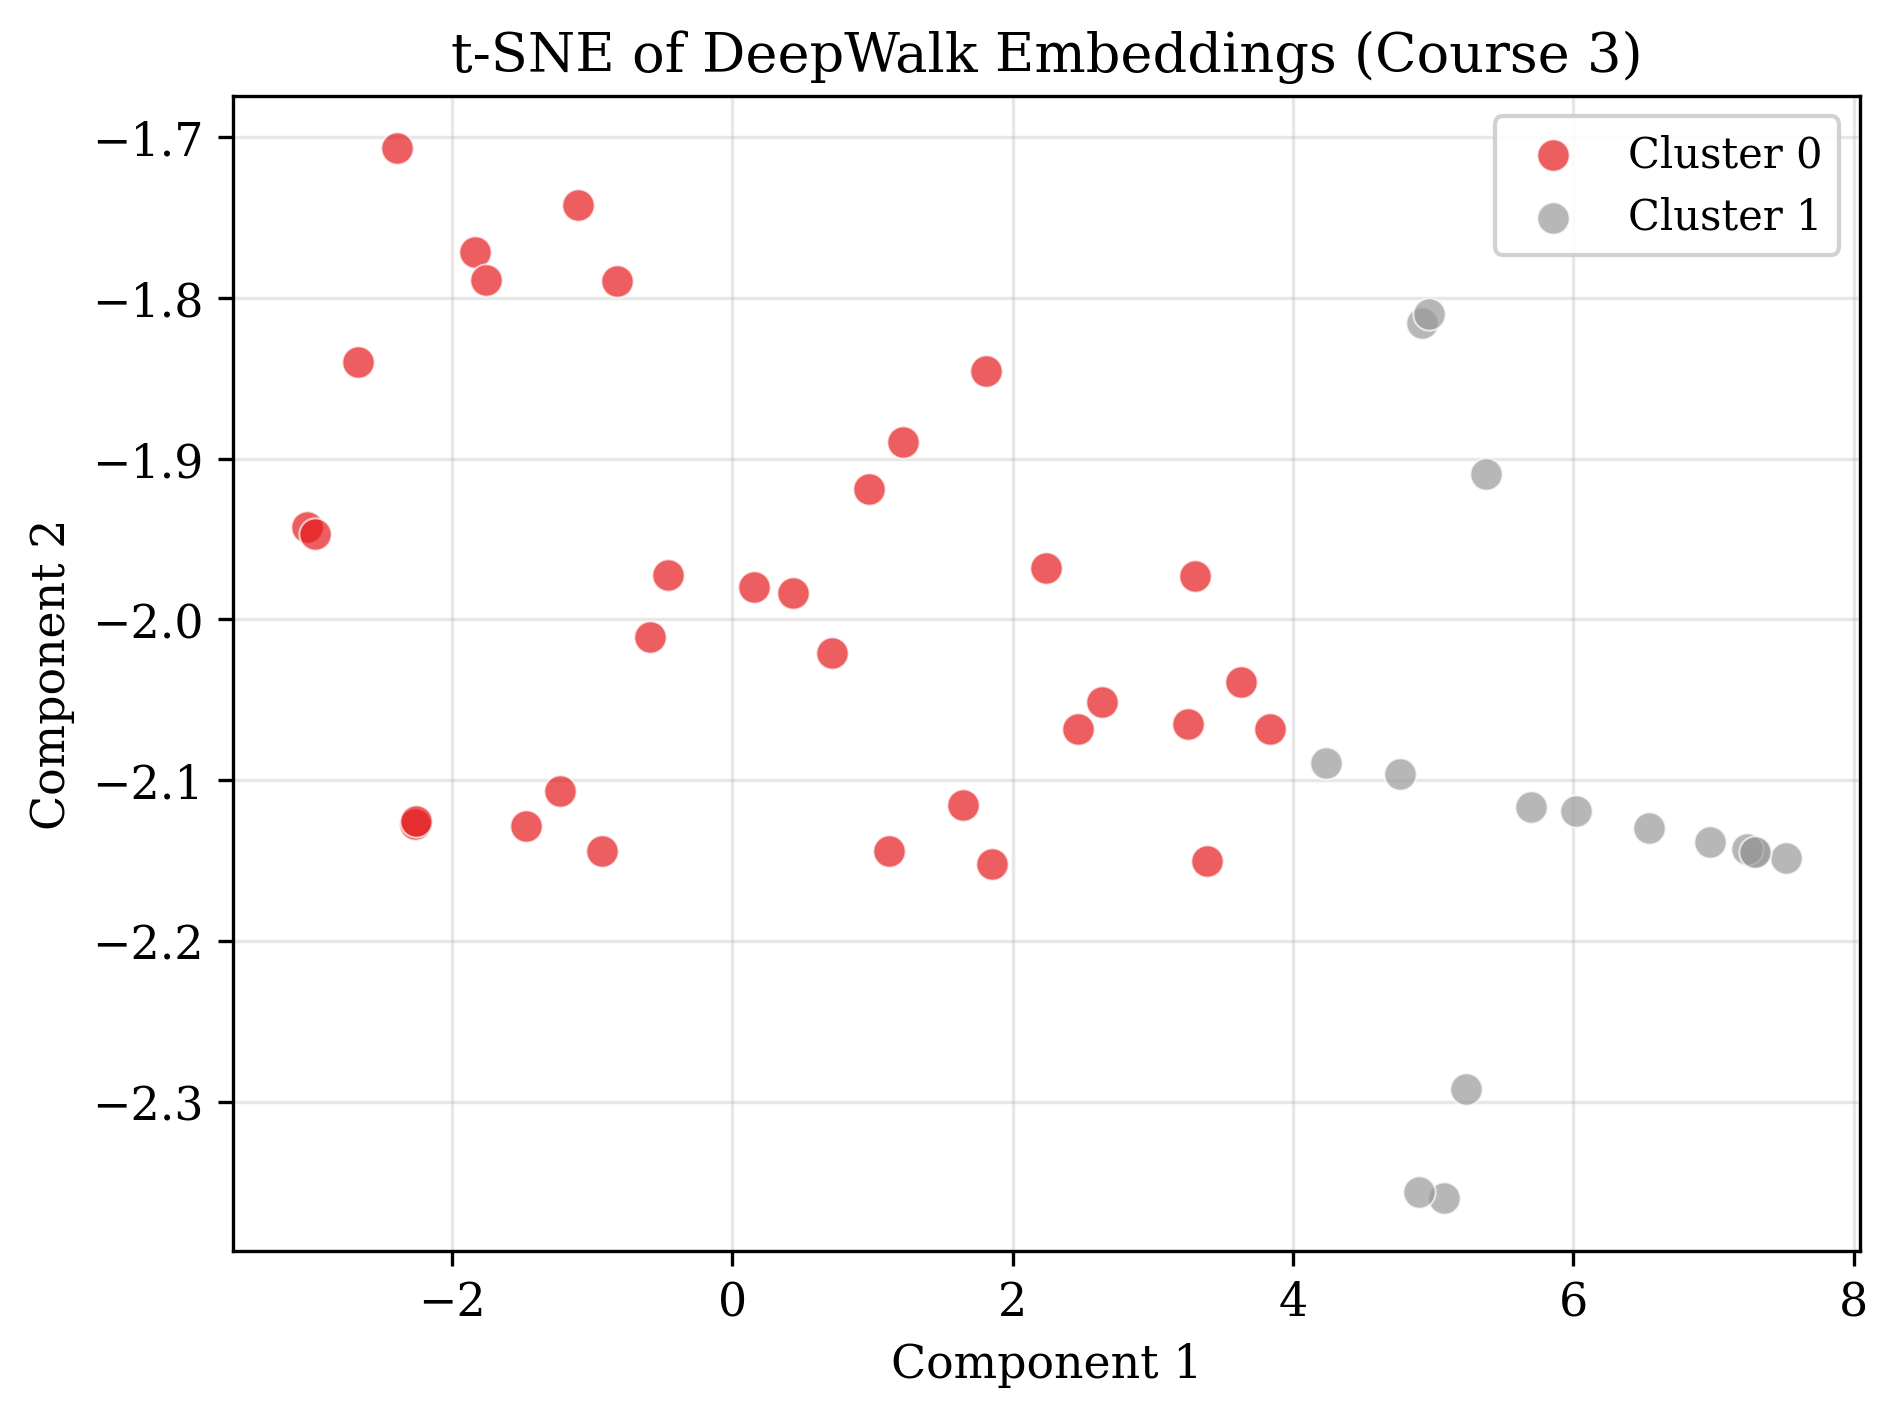
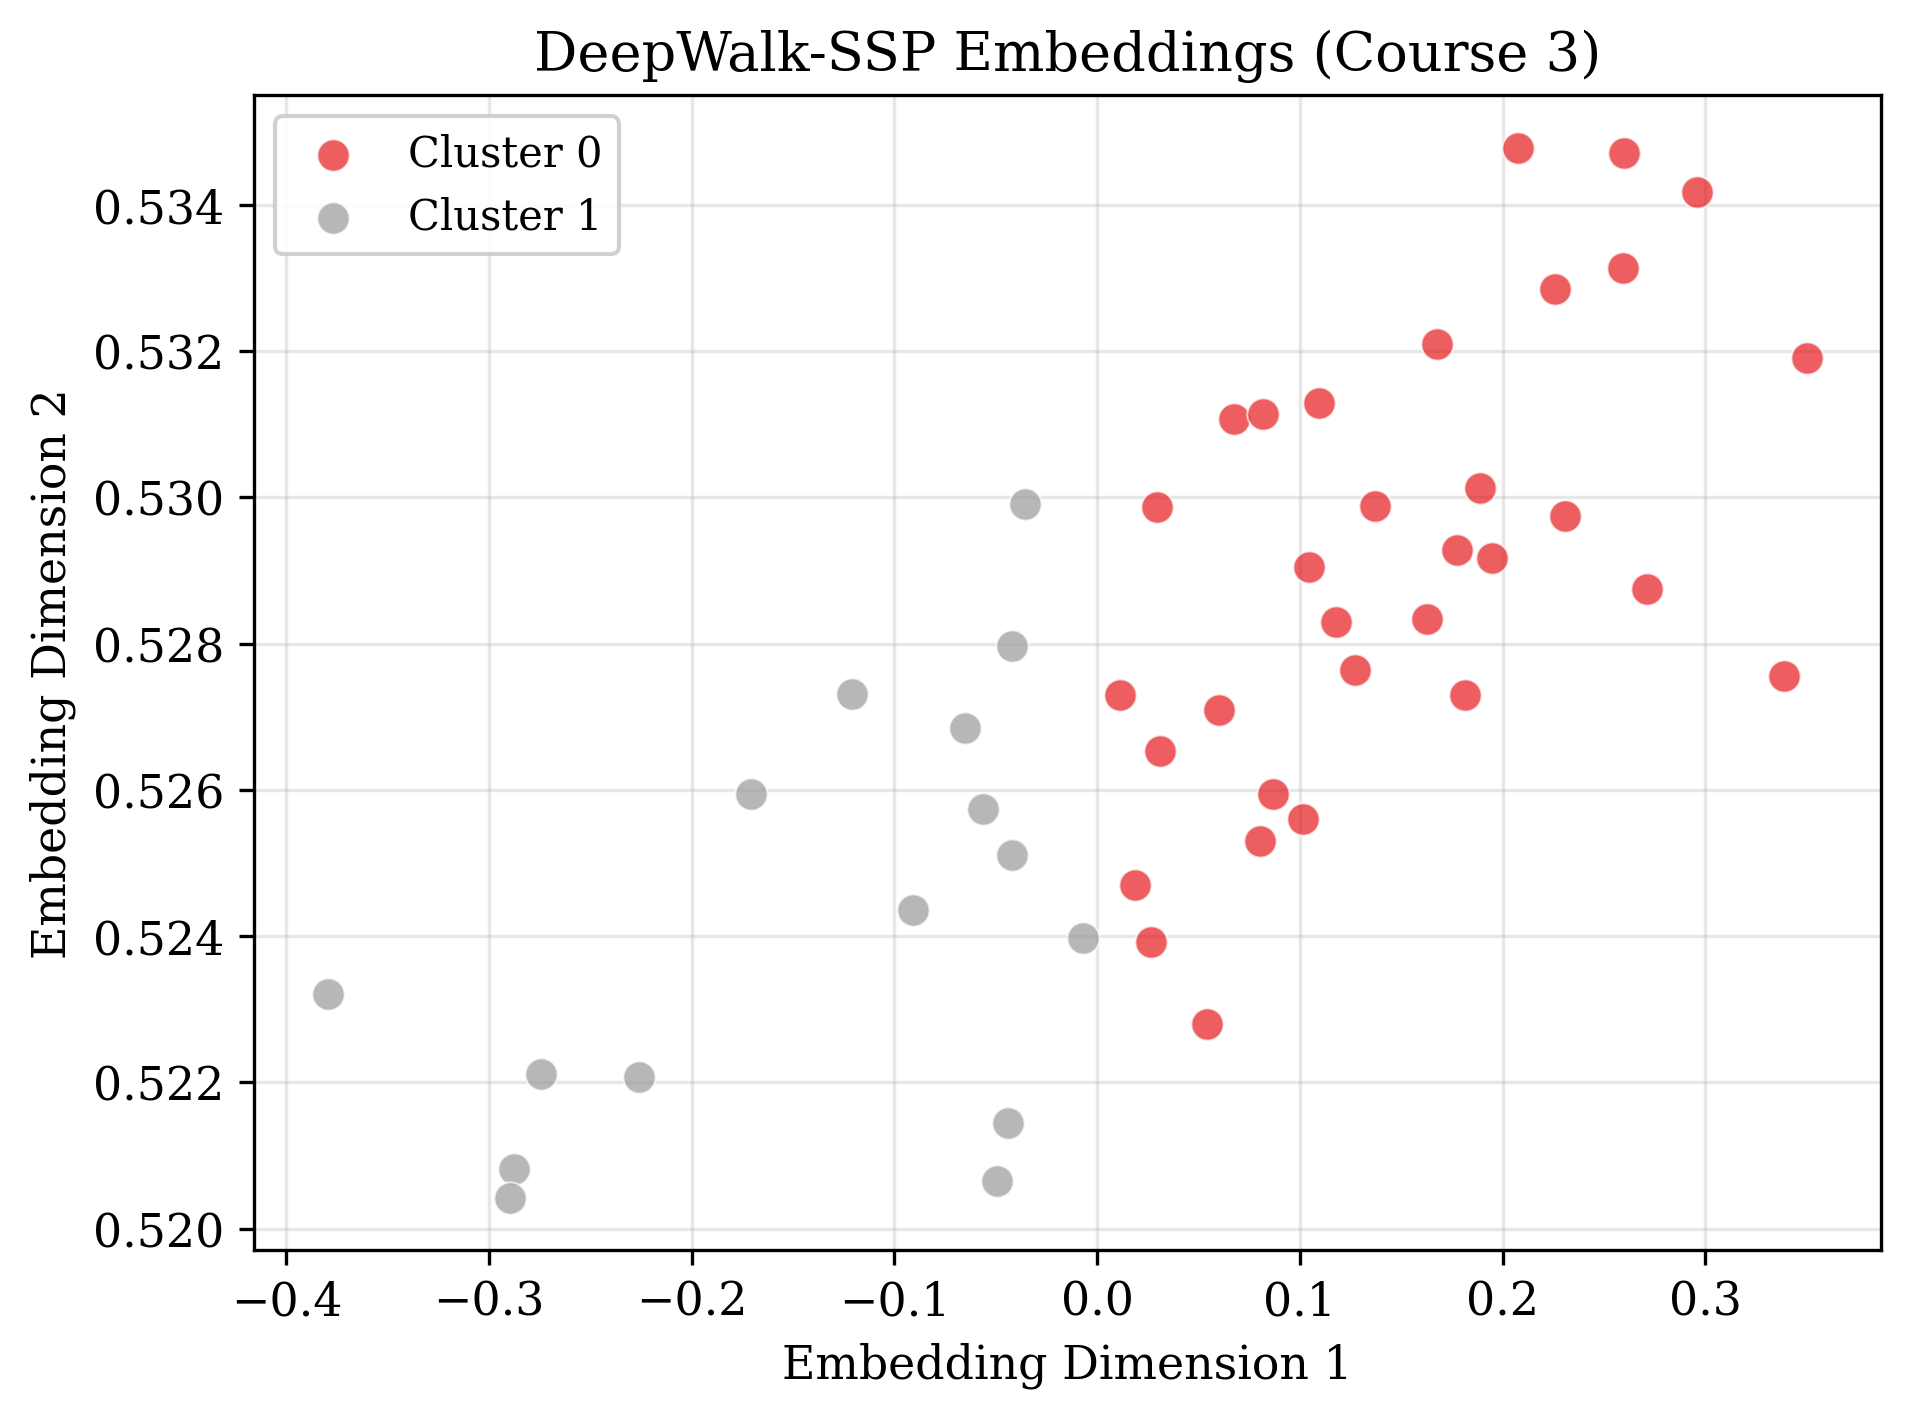
Fix: Remove t-SNE from DeepWalk embedding visualization for d=2
Since the final configuration uses embedding dimension d=2, the
DeepWalk embeddings are already two-dimensional and do not need
t-SNE projection. This commit:

- Adds axis_labels parameter to plot_embedding_visualization() in
  plotting.py for custom axis labels on raw embeddings
- Updates experiment_visualization() in run_experiments.py to plot
  d=2 embeddings directly (no t-SNE) while keeping t-SNE for the
  high-dimensional BoW representation
- Adds standalone visualize_courses.py script for Course 3 and 5
- Regenerates DeepWalk figures: embeddings now plotted in their
  original embedding space with axes labeled "Embedding Dimension 1"
  and "Embedding Dimension 2"
- BoW figures unchanged (t-SNE projection retained for high-dim data)

Figures copied to paper/ (gitignored) for LaTeX compilation.

🤖 Generated with Codebuff

diff --git a/experiments/visualize_courses.py b/experiments/visualize_courses.py
@@ -1,0 +1,181 @@
+# -*- coding: utf-8 -*-
+"""
+Standalone visualization script for Course 3 and Course 5.
+Generates figures comparing:
+  (a) t-SNE of traditional Student-Course (BoW) representation
+  (b) Direct 2D DeepWalk-SSP embeddings (no dimensionality reduction)
+
+Usage:
+    python -m experiments.visualize_courses
+"""
+
+import os
+import sys
+import shutil
+import warnings
+warnings.filterwarnings("ignore")
+
+import numpy as np
+import matplotlib
+matplotlib.use('Agg')
+
+PROJECT_ROOT = os.path.dirname(os.path.dirname(os.path.abspath(__file__)))
+sys.path.insert(0, PROJECT_ROOT)
+
+from experiments.config import DATA_DIR, FIGURES_DIR, DEFAULT_PARAMS
+from experiments.core import read_class, run_pipeline
+from experiments.evaluation import evaluate_clustering, reduce_tsne
+from experiments.plotting import (
+    plot_embedding_visualization, setup_style, save_fig
+)
+
+# Ensure output directories exist
+os.makedirs(FIGURES_DIR, exist_ok=True)
+PAPER_DIR = os.path.join(PROJECT_ROOT, "paper")
+
+# Courses to visualize (same as in the paper)
+COURSES = [3, 5]
+
+# Data dimensions (from actual data files)
+DATA_DIMS = {
+    3: (48, 28),   # 48 students x 28 courses
+    5: (52, 32),   # 52 students x 32 courses
+}
+
+
+def generate_visualization(course_idx):
+    """Generate side-by-side visualization for a single course.
+    
+    Left panel:  t-SNE of Student-Course (BoW) representation
+    Right panel: Direct 2D DeepWalk-SSP embeddings (no t-SNE)
+    """
+    filepath = os.path.join(DATA_DIR, f"{course_idx}.txt")
+    scm, _ = read_class(filepath)
+    if scm is None:
+        print(f"  ERROR: Could not load Course {course_idx}")
+        return
+
+    n_students, n_courses = scm.shape
+    n_students_expected, n_courses_expected = DATA_DIMS[course_idx]
+    assert n_students == n_students_expected, \
+        f"Expected {n_students_expected} students, got {n_students}"
+    assert n_courses == n_courses_expected, \
+        f"Expected {n_courses_expected} courses, got {n_courses}"
+
+    print(f"\n  Course {course_idx}: {n_students} students x {n_courses} courses")
+
+    # Run DeepWalk pipeline with d=2 (same config as paper)
+    result = run_pipeline(
+        filepath,
+        vector_size=DEFAULT_PARAMS["vector_size"],   # d=2
+        walk_length=DEFAULT_PARAMS["walk_length"],    # t=10
+        num_walks=DEFAULT_PARAMS["num_walks"],        # gamma=80
+        window=DEFAULT_PARAMS["window"],              # w=5
+        epochs=DEFAULT_PARAMS["epochs"],              # eps=30
+        seed=0,
+    )
+
+    if not result["success"]:
+        print(f"  ERROR: DeepWalk pipeline failed for Course {course_idx}")
+        return
+
+    embeddings = result["embeddings"]
+    print(f"    Embeddings shape: {embeddings.shape} (expected ({n_students}, 2))")
+    assert embeddings.shape == (n_students, 2), \
+        f"Expected ({n_students}, 2), got {embeddings.shape}"
+
+    # Cluster assignments
+    emb_labels = evaluate_clustering(
+        embeddings, n_clusters=2, random_state=0
+    )["kmeans"]["labels"]
+
+    bow_labels = evaluate_clustering(
+        scm, n_clusters=2, random_state=0
+    )["kmeans"]["labels"]
+
+    # ── Panel (a): t-SNE of BoW (high-dimensional, needs projection) ──
+    try:
+        bow_tsne = reduce_tsne(
+            scm.astype(float),
+            perplexity=min(20, scm.shape[0] - 2),
+            random_state=42
+        )
+        plot_embedding_visualization(
+            scm, bow_labels,
+            f"t-SNE of Student-Course Representation (Course {course_idx})",
+            f"exp_F_tSNE_BoW_course{course_idx}.png",
+            reduced_2d=bow_tsne,
+        )
+        print(f"    [a] t-SNE BoW ({n_students}x{n_courses}): OK")
+    except Exception as e:
+        print(f"    [a] t-SNE BoW failed: {e}")
+
+    # ── Panel (b): Direct 2D DeepWalk embeddings (NO t-SNE) ──
+    plot_embedding_visualization(
+        embeddings, emb_labels,
+        f"DeepWalk-SSP Embeddings (Course {course_idx})",
+        f"exp_F_tSNE_DeepWalk_course{course_idx}.png",
+        reduced_2d=embeddings,  # Already 2D — plot directly
+        axis_labels=(
+            'Embedding Dimension 1',
+            'Embedding Dimension 2'
+        ),
+    )
+    print(f"    [b] DeepWalk 2D direct ({embeddings.shape}): OK")
+
+    return embeddings, emb_labels
+
+
+def copy_figures_to_paper():
+    """Copy generated figures to paper/ folder for LaTeX compilation."""
+    if not os.path.isdir(PAPER_DIR):
+        print(f"\n  WARNING: paper/ directory not found at {PAPER_DIR}")
+        return
+
+    copied = []
+    for course_idx in COURSES:
+        for suffix in ["BoW", "DeepWalk"]:
+            fname = f"exp_F_tSNE_{suffix}_course{course_idx}.png"
+            src = os.path.join(FIGURES_DIR, fname)
+            dst = os.path.join(PAPER_DIR, fname)
+            if os.path.exists(src):
+                shutil.copy2(src, dst)
+                copied.append(fname)
+            else:
+                print(f"  WARNING: {fname} not found in {FIGURES_DIR}")
+
+    if copied:
+        print(f"\n  Copied {len(copied)} figures to paper/:")
+        for f in copied:
+            print(f"    {f}")
+
+
+def main():
+    print("=" * 70)
+    print("  DeepWalk-SSP Visualization: Course 3 and Course 5")
+    print("=" * 70)
+    print(f"\n  Configuration:")
+    print(f"    Embedding dimension d = {DEFAULT_PARAMS['vector_size']}")
+    print(f"    Walk length t = {DEFAULT_PARAMS['walk_length']}")
+    print(f"    Number of walks gamma = {DEFAULT_PARAMS['num_walks']}")
+    print(f"    Context window w = {DEFAULT_PARAMS['window']}")
+    print(f"    Training epochs = {DEFAULT_PARAMS['epochs']}")
+    print(f"    Random seed = 0")
+    print(f"\n  DeepWalk: plotted DIRECTLY (no t-SNE, no PCA)")
+    print(f"    x-axis: Embedding Dimension 1")
+    print(f"    y-axis: Embedding Dimension 2")
+    print(f"\n  BoW: plotted using t-SNE projection (high-dimensional)")
+
+    for course_idx in COURSES:
+        generate_visualization(course_idx)
+
+    # Copy to paper/
+    copy_figures_to_paper()
+
+    print("\n" + "=" * 70)
+    print("  DONE")
+    print("=" * 70)
+
+
+if __name__ == "__main__":
+    main()

diff --git a/experiments/run_experiments.py b/experiments/run_experiments.py
@@ -579,18 +579,29 @@ def experiment_visualization():
         except Exception as e:
             print(f"    t-SNE BoW failed: {e}")
 
-        # t-SNE of embeddings (with error handling)
-        try:
-            emb_tsne = reduce_tsne(embeddings, perplexity=min(20, embeddings.shape[0]-2), random_state=42)
+        # Direct 2D visualization of DeepWalk embeddings (no t-SNE needed)
+        if embeddings.shape[1] == 2:
             plot_embedding_visualization(
                 embeddings, emb_labels,
-                f"t-SNE of DeepWalk Embeddings (Course {i})",
+                f"DeepWalk Embeddings (Course {i})",
                 f"exp_F_tSNE_DeepWalk_course{i}.png",
-                reduced_2d=emb_tsne,
+                reduced_2d=embeddings,
+                axis_labels=('Embedding Dimension 1', 'Embedding Dimension 2'),
             )
-            print(f"    t-SNE DeepWalk: OK")
-        except Exception as e:
-            print(f"    t-SNE DeepWalk failed: {e}")
+            print(f"    DeepWalk 2D direct: OK")
+        else:
+            # Fallback: t-SNE only when d > 2
+            try:
+                emb_tsne = reduce_tsne(embeddings, perplexity=min(20, embeddings.shape[0]-2), random_state=42)
+                plot_embedding_visualization(
+                    embeddings, emb_labels,
+                    f"t-SNE of DeepWalk Embeddings (Course {i})",
+                    f"exp_F_tSNE_DeepWalk_course{i}.png",
+                    reduced_2d=emb_tsne,
+                )
+                print(f"    t-SNE DeepWalk: OK")
+            except Exception as e:
+                print(f"    t-SNE DeepWalk failed: {e}")
 
     return True
 

diff --git a/experiments/plotting.py b/experiments/plotting.py
@@ -210,8 +210,16 @@ def plot_clustering_methods_comparison(df_all_results,
 # ── Figure 4: Embedding Visualization ────────────────────────────────────────
 
 def plot_embedding_visualization(data, labels, title, filename,
-                                  reduced_2d=None, method_name=""):
-    """Plot 2D embedding visualization with cluster coloring."""
+                                  reduced_2d=None, method_name="",
+                                  axis_labels=None):
+    """Plot 2D embedding visualization with cluster coloring.
+    
+    Args:
+        axis_labels: Tuple of (xlabel, ylabel). If None, defaults to
+                     ('Component 1', 'Component 2'). Use
+                     ('Embedding Dimension 1', 'Embedding Dimension 2')
+                     when plotting raw d=2 embeddings directly.
+    """
     setup_style()
     
     if reduced_2d is None:
@@ -229,8 +237,12 @@ def plot_embedding_visualization(data, labels, title, filename,
                    s=60, alpha=0.7, edgecolors='white', linewidth=0.5)
     
     ax.set_title(title, fontsize=13)
-    ax.set_xlabel('Component 1', fontsize=11)
-    ax.set_ylabel('Component 2', fontsize=11)
+    if axis_labels is not None:
+        ax.set_xlabel(axis_labels[0], fontsize=11)
+        ax.set_ylabel(axis_labels[1], fontsize=11)
+    else:
+        ax.set_xlabel('Component 1', fontsize=11)
+        ax.set_ylabel('Component 2', fontsize=11)
     ax.legend(framealpha=0.9)
     ax.grid(True, alpha=0.3)
     ax.set_axisbelow(True)
